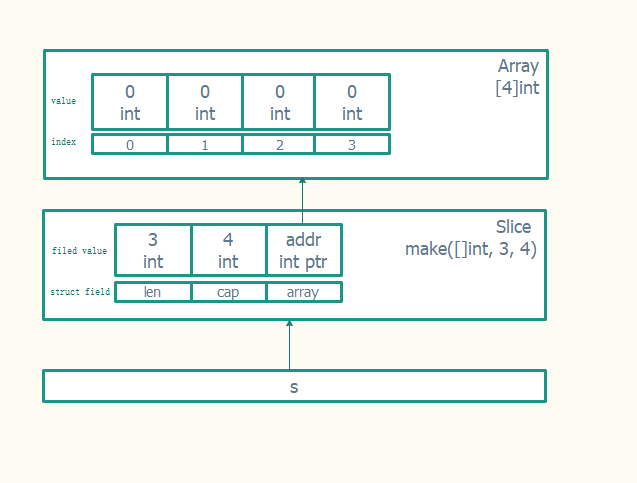
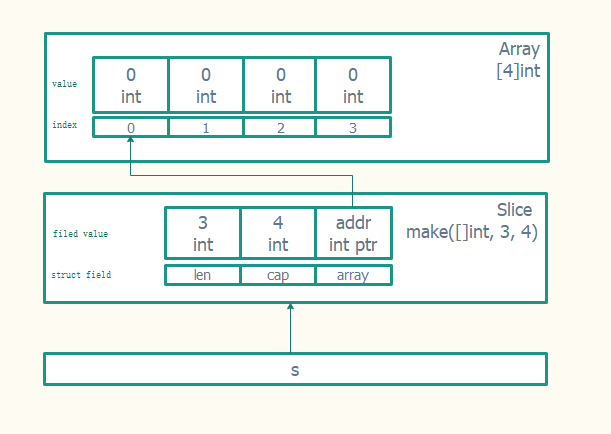
更新切片

Changed region(s): [[0.0622, 0.0599, 0.9018, 0.8986]]

diff --git a/day3/slice_test.go b/day3/slice_test.go
@@ -6,6 +6,11 @@ import (
 	"unsafe"
 )
 
+func TestSlice1(t *testing.T) {
+	slice := []int{3: 100}
+	fmt.Println(slice, len(slice), cap(slice))
+}
+
 func TestSliceSize(t *testing.T) {
 	a := make([]int, 3, 5)
 	fmt.Println(a, len(a), cap(a))
@@ -21,4 +26,58 @@ func TestSliceAddr(t *testing.T) {
 	b := make([]int64, 3, 5)
 	fmt.Println(unsafe.Sizeof(&(b[0])))
 	fmt.Println(&(b[0]), &(b[1]), 0xa3c0-0xa3c8)
+}
+
+func TestSlice3(t *testing.T) {
+	var s []int
+	s[0] = 1
+}
+
+func TestSlice4(t *testing.T) {
+	s := []int{1, 2, 3}
+	_ = s[3]
+}
+
+func TestSliceAppend1(t *testing.T) {
+	s := make([]int, 0, 4)
+	s = append(s, 10, 20, 30, 40)
+	fmt.Println(s)
+}
+
+func TestSlice5(t *testing.T) {
+	s1 := []int{1, 2, 3, 4}
+	s2 := s1[2:4:4]
+	fmt.Println(s2, len(s2), cap(s2))
+
+	s3 := s1[2:4]
+	fmt.Println(s3, len(s3), cap(s3))
+}
+
+func TestSlice6(t *testing.T) {
+	s1 := []int{10, 20, 30, 40}
+	s2 := s1[1:3]
+	fmt.Println(s2, len(s2), cap(s2))
+
+	fmt.Println(s1[1], s2[0])
+	s1[1] = 200
+	fmt.Println(s1[1], s2[0])
+}
+
+func TestSlice7(t *testing.T) {
+	s1 := []int{10, 20, 30, 40}
+	s2 := s1[1:3:3]
+	fmt.Println(s2, len(s2), cap(s2))
+
+	fmt.Println(s1[1], s2[0])
+	s2 = append(s2, 30)
+	s1[1] = 200
+	fmt.Println(s1[1], s2[0])
+}
+
+func TestCopy1(t *testing.T) {
+	s1 := []int{10, 20, 30, 40}
+	s2 := make([]int, 5)
+	num := copy(s2, s1)
+	fmt.Println(num)
+	fmt.Println(s1, s2)
 }

diff --git a/zh-cn/base/slice.md b/zh-cn/base/slice.md
@@ -25,96 +25,237 @@ fmt.Println(a, len(s), cap(s)) // [0 0 0] 3 5
 
 ![slice_struct](../../image/slice_struct.png)
 
+## 创建和初始化
 
-## 切片
+在 Golang 中可以通过多种方式创建和初始化切片。是否提前知道切片所需的容量通常会决定如何创建切片
 
-![切片的语法](https://golang.org/ref/spec#Slice_expressions)
+1.make创建
 
-切片是长度可变的数组（具有相同数据类型的数据项组成的一组长度可变的序列），切片由
-三部分组成：
-
-+ 指针：指向切片第一个元素指向的数组元素的地址
-+ 长度：切片元素的数量
-+ 容量：切片开始到结束位置元素的数量
-
-### 源码解读
-
-动态增长逻辑: growslice
 
 ```go
-// growslice handles slice growth during append.
-// It is passed the slice element type, the old slice, and the desired new minimum capacity,
-// and it returns a new slice with at least that capacity, with the old data
-// copied into it.
-// The new slice's length is set to the old slice's length,
-// NOT to the new requested capacity.
-// This is for codegen convenience. The old slice's length is used immediately
-// to calculate where to write new values during an append.
-// TODO: When the old backend is gone, reconsider this decision.
-// The SSA backend might prefer the new length or to return only ptr/cap and save stack space.
-func growslice(et *_type, old slice, cap int) slice {
-    ...
-}
+// 创建一个整型切片, 其长度为 3 个元素，容量为 5 个元素
+slice := make([]int, 3, 5)
+
+// 我们也可以省略容量, 默认长度==容量
+// 创建一个整型切片 其长度和容量都是 5 个元素
+slice := make([]int, 5)
+
+// 但是长度不能容量, 否则编译器过不了
+// a := make([]int, 5, 3)
 ```
 
-1) 声明
-切片声明需要指定组成元素的类型，但不需要指定存储元素的数量（长度）。在切片声明后，
-会被初始化为 nil，表示暂不存在的切片
+2.字面量创建
 
-2) 初始化
-a) 使用字面量初始化:[]type{v1, v2, …, vn}
-b) 使用字面量初始化空切片: []type{}
-c) 指定长度和容量字面量初始化:[]type{im:vm, in:vn, ilength:vlength}
-d) 使用 make 函数初始化
-make([]type, len)/make([]type, len, cap)，通过 make 函数创建长度为 len，容量
-为 cap 的切片，len 必须小于等于 cap
-e) 使用数组切片操作初始化：array[start:end] array[start:end:cap] (end<=cap<=len)
 
-3) 操作
-a) 获取切片长度和容量
-使用 len 函数可获取切片的长度，使用 cap 函数可获取切片容量
+```go
+// 这种方法和创建数组类似，只是不需要指定[]运算符里的值。初始的长度和容量会基于初始化时提供的元素的个数确定
+slice := []int{1,2,3}
 
-b) 访问和修改
-通过对编号对切片元素进行访问和修改，元素的编号从左到右依次为:0, 1, 2, …, n(n
-为切片长度-1)
+// 和数组一样也可以通过指定索引初始化, 比如index 4 值为100
+slice := []int{3: 100}
+```
 
-c) 切片: slice[start:end]用于创建一个新的切片，end <= src_cap
-新创建切片长度和容量计算：len: end-start, cap: src_cap-start
-切片共享底层数组，若某个切片元素发生变化，则数组和其他有共享元素的切片也会发生变化
+3.注意数组和切片的区别
 
-slice[start:end:cap]可用于限制新切片的容量值, end<=cap<= src_cap
-新创建切片长度和容量计算：len: end-start, cap: cap-start
+如果在 [] 运算符里指定了一个值，那么创建的就是数组而不是切片, 比如
+```go
+a := [3]int{1,2,3}
+b := []int{1,2,3}
+```
 
-d) 遍历
-可以通过 for+len+访问方式或 for-range 方式对切片中元素进行遍历
-使用 for-range 遍历切片，range 返回两个元素分别为切片元素索引和值
+虽然他们声明时藐视只要1点区别，但是他们的数据结构区差别却很大，一个是引用类型 一个是值类型
 
-e) 增加元素
-使用 append 对切片增加一个或多个元素并返回修改后切片，当长度在容量范围内时只
-增加长度，容量和底层数组不变。当长度超过容量范围则会创建一个新的底层数组并对
-容量进行智能运算(元素数量<1024 时，约按原容量 1 倍增加，>1024 时约按原容量 0.25
-倍增加)
+4. 创建切片的本质
+切片相关源码放置位置: src/runtime/slice.go, 我们使用make时, 实际上是调用的makeslice函数
+```go
+// 这里一波操作过后返回的是slice的pointer
+func makeslice(et *_type, len, cap int) unsafe.Pointer {}
+```
 
-f) 复制切片到另一个切片
-复制元素数量为 src 元素数量和 dest 元素数量的最小值
+## 切片访问
 
-4) 使用
-a) 移除元素
+对切片里某个索引指向的元素赋值和对数组里某个索引指向的元素赋值的方法完全一样。使
+用 [] 操作符就可以改变某个元素的值，下面是使用切片字面量来声明切片
 
-b) 队列
-先进先出
+```go
+s := []int{1,2,3}
+s[0]
 
-c) 堆栈
+// 但是不能越界访问, 比如
+s[3] // panic: runtime error: index out of range [3] with length 3
+```
 
-5) 多维切片
+查看切片长度: len
+```go
+```
+
+
+查看切片容量: cap
+```go
+```
+
+## nil和空切片
+
+声明未初始化的切片为nil
+```go
+var s []int
+```
+
+![slice_struct](../../image/nil_slice.png)
+
+初始化一个空切片
+```go
+s := make([]int,0)
+```
+![null_struct](../../image/nil_slice.png)
+
+所以nil切片直接赋值是要报错的
+```go
+var s []int
+s[0] = 1 // panic: runtime error: index out of range [0] with length 0
+```
+
+## 往切片中添加元素
+
+我们通过append函数往切片中追加元素, 比如
+```go
+s := make([]int, 0, 4)
+s = append(s, 10, 20, 30, 40)
+```
+
+![null_struct](../../image/slice_append.png)
+
+现在底层数组已经满了，再往里面追加元素，会咋样?
+
+```go
+s = append(s,50)
+```
+
+![null_struct](../../image/slice_grow.png)
+
+函数 append() 会智能地处理底层数组的容量增长。在切片的容量小于 1000 个元素时，总是会成倍地增加容量。一旦元素个数超过 1000，容量的增长因子会设为 1.25，也就是会每次增加 25%的容量(随着语言的演化，这种增长算法可能会有所改变)
+
+## 通过切片创建新的切片
+
+切片之所以被称为切片，是因为创建一个新的切片，也就是把底层数组切出一部分。通过切片创建新切片的语法如下, 详情请参考: ![切片的语法](https://golang.org/ref/spec#Slice_expressions)
+
+```go
+slice[low : high]
+slice[low : high : max]
+```
+
++ low : 表示从 slice 的第几个元素开始切
++ high : 控制切片的长度(high-low)
++ max : 控制切片的容量(max-low)
+
+比如
+```go
+s1 := []int{1, 2, 3, 4}
+s2 := s1[2:4:4]  // [index2, index4) 左闭右开区间, 容量 4-2
+fmt.Println(s2, len(s2), cap(s2))
+```
+
+如果high == max 你也可以省略 max，比如:
+```go
+s3 := s1[2:4]
+```
+
+再次基础上还要几种省略写法:
++ 省略low 表示从 index 0 开始
++ 省略high 表示到 结尾(len)
++ 省略max  表示到 结尾(len)
++ 都省略： 等于复制
+```go
+slice[i:]  // 从 i 切到最尾部
+slice[:j]  // 从最开头切到 j(不包含 j)
+slice[:]   // 从头切到尾，等价于复制整个 slice
+```
+
+例如:
+```go
+```
+
+注意: 通过切片创建出来的切片是共享底层数据结构的(数组)
+
+![null_struct](../../image/slice_share_s1_s2.png)
+
+共享底层数组 会导致相互影响， 比如 修改原切片 会影响多所有复制出来的切片，这就是 为啥叫切片，而不是复制
+```go
+s1 := []int{10, 20, 30, 40}
+s2 := s1[1:3]
+fmt.Println(s2, len(s2), cap(s2))
+
+fmt.Println(s1[1], s2[0])
+s1[1] = 200
+fmt.Println(s1[1], s2[0])
+```
+
+有扩容的原理 我们也可以知道, 当扩容后，就不共享底层数组了，比如:
+```go
+s1 := []int{10, 20, 30, 40}
+s2 := s1[1:3:3]
+fmt.Println(s2, len(s2), cap(s2))
+
+fmt.Println(s1[1], s2[0])
+s2 = append(s2, 30)   // s2 扩容
+s1[1] = 200           // 修改s1
+fmt.Println(s1[1], s2[0]) // s1修改并不会影响s2
+```
+
+整体建议: 不要修改切片, 如果要修改请使用后面的深拷贝复制一个全新的切片
+
+## 遍历切片
+
+切片是一个集合，可以迭代其中的元素。Golang 有个特殊的关键字 range，它可以配合关键字 for 来迭代切片里的元素
+
+```go
+```
+
+
+当迭代切片时，关键字 range 会返回两个值。第一个值是当前迭代到的索引位置，第二个值是该位置对应元素值的一份副本。需要强调的是，range 创建了每个元素的副本，而不是直接返回对该元素的引用。要想获取每个元素的地址，可以使用切片变量和索引值
+```go
+```
+
+
+## 切片拷贝
+
+我们不能像数组一样 直接使用赋值语句 来拷贝一个切片, 因为数组是值，而切片是指针， 真正的数据 维护在底层数组里面
+```go
+a1 := [2]{1,2}
+a2 := a1    // 值拷贝, a1, a2 互不影响
+
+s1 := []{1, 2}
+s2 := s1   // 指针拷贝 s1, s2 指向同一*slice结构体, 就是一个东西，等于没拷贝
+```
+
+Golang 内置的 copy() 函数可以将一个切片中的元素拷贝到另一个切片中，其函数声明为
+```go
+func copy(dst, src []Type) int
+```
+它表示把切片 src 中的元素拷贝到切片 dst 中，返回值为拷贝成功的元素个数。如果 src 比 dst 长，就截断；如果 src 比 dst 短，则只拷贝 src 那部分
+
+```go
+s1 := []int{10, 20, 30, 40}
+s2 := make([]int, 5)
+num := copy(s2, s1)   // 这时候s1 和 s2 就是2个切片，包含底层数据, 互不影响
+fmt.Println(num)
+fmt.Println(s1, s2)
+```
+
+## 切片作为函数参数
+
+
+## 多维切片
+
 切片的元素也可以是切片类型，此时称为多维切片
 
 
-先进后出
+## 总结
 
-
+切片是 Golang 中比较有特色的一种数据类型，既为我们操作集合类型的数据提供了便利的方式，是又能够高效的在函数间进行传递，因此在代码中切片类型被使用的相当广泛
 
 
 ## 参考
 
 ![slices-intro](https://blog.golang.org/slices-intro)
+

diff --git a/zh-cn/base/unsafe_pointer.md b/zh-cn/base/unsafe_pointer.md
@@ -227,3 +227,22 @@ syscall.Syscall(SYS_READ, uintptr(fd), u, uintptr(n))
 + 将reflect.Value.Pointer或者reflect.Value.UnsafeAddr方法的uintptr返回值立即转换为非类型安全指针
 + 将一个reflect.SliceHeader或者reflect.StringHeader值的Data字段转换为非类型安全指针，以及其逆转换
 
+## 声明与总结
+
+go1 并不保证unsafe的兼容, 我们应该知晓当前的非类型安全机制规则和使用模式可能在以后的Go版本中完全失效, 几率很小， 因此，在实践中，请尽量保证能够将使用了非类型安全机制的代码轻松改为使用安全途径实现
+
+从上面解释中，我们得知，对于某些情形，非类型安全机制可以帮助我们写出运行效率更高的代码。 但是，使用非类型安全指针也使得我们可能轻易地写出一些重现几率非常低的微妙的bug。 一个含有这样的bug的程序很可能在很长一段时间内都运行正常，但是突然变得不正常甚至崩溃。 这样的bug很难发现和调试
+
+
+
+## 作业
+
+通过内存地址访问Tag的值
+```go
+type Book struct {
+	Title  string
+	Author string
+	Page   uint
+	Tag    []string
+}
+```
